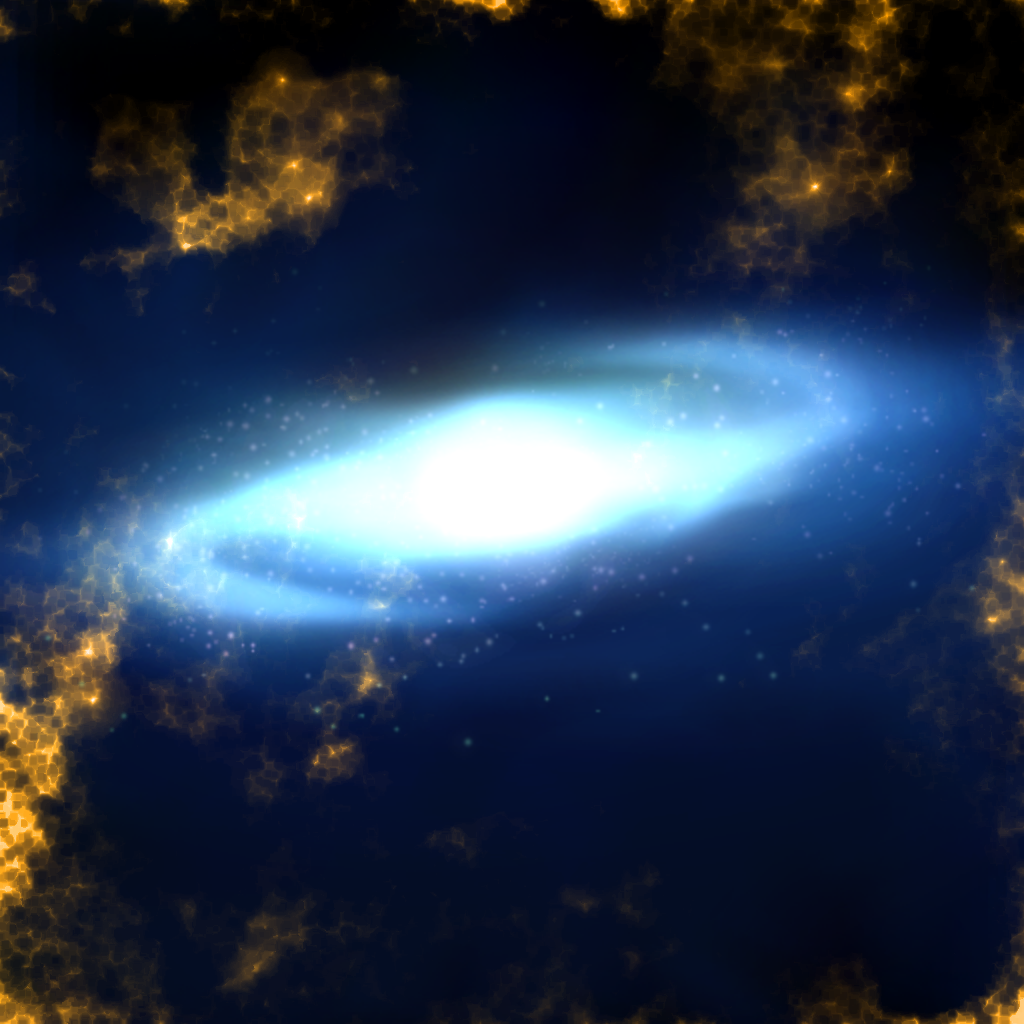
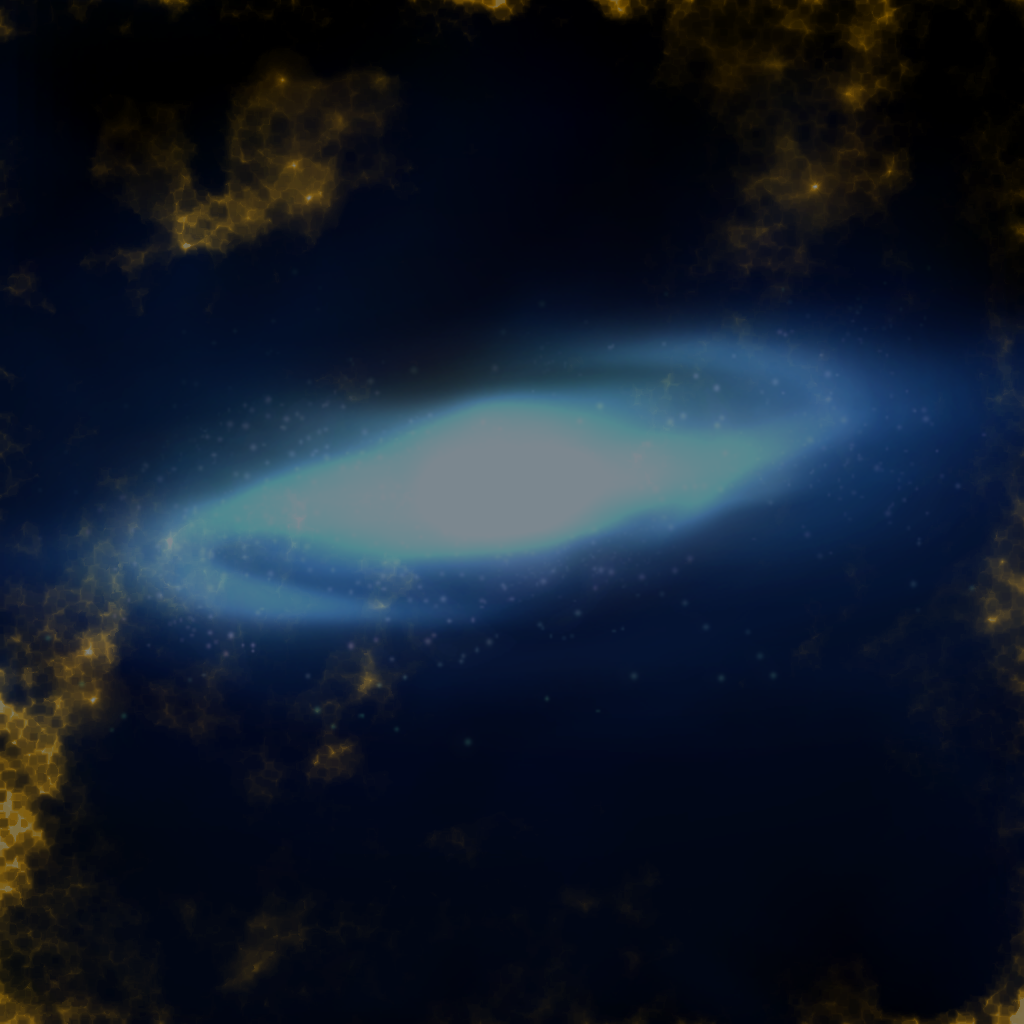
Tweaked a lot of variables regarding colour, UI, layout. Changed background to be less bright so text is readable. Showing detail info when completely zoomed in.

diff --git a/core/src/joozey/games/shellworlds/ShellWorlds.java b/core/src/joozey/games/shellworlds/ShellWorlds.java
@@ -7,7 +7,9 @@ import com.badlogic.gdx.InputMultiplexer;
 import com.badlogic.gdx.InputProcessor;
 import com.badlogic.gdx.graphics.GL20;
 import com.badlogic.gdx.graphics.OrthographicCamera;
+import com.badlogic.gdx.graphics.Texture;
 import com.badlogic.gdx.graphics.g2d.BitmapFont;
+import com.badlogic.gdx.graphics.g2d.NinePatch;
 import com.badlogic.gdx.graphics.g2d.SpriteBatch;
 import com.badlogic.gdx.graphics.g2d.freetype.FreeTypeFontGenerator;
 import com.badlogic.gdx.graphics.glutils.ShapeRenderer;
@@ -38,6 +40,8 @@ public class ShellWorlds extends Game implements GameRunnable, ApplicationListen
     private BitmapFont alienFont, normalFont;
     private DefaultSprite background;
     private DefaultSprite marker;
+    private NinePatch infoDisplay;
+    private boolean showDetailedInfo;
 
     private GameThread gameThread;
 
@@ -77,6 +81,7 @@ public class ShellWorlds extends Game implements GameRunnable, ApplicationListen
         followBodyObject = bodyObjectList.get(0);
 
         camera = new OrthographicCamera( GameData.getWidth(), GameData.getHeight() );
+        camera.zoom = 1f;
         batch = BatchManager.getSpriteBatch();
 
         shapeRenderer = BatchManager.getShapeRenderer();
@@ -95,8 +100,10 @@ public class ShellWorlds extends Game implements GameRunnable, ApplicationListen
 
         generator.dispose(); // don't forget to dispose to avoid memory leaks!
 
-        background = new DefaultSprite( "background3.png" );
+        background = new DefaultSprite( "background4.png" );
         marker = new DefaultSprite( "marker.png" );
+        marker.setAlpha( 1f - 1f/camera.zoom );
+        infoDisplay = new NinePatch( new Texture( "data/dialog-frame.png" ), 7, 7, 7, 7 );
     }
 
     @Override
@@ -157,26 +164,38 @@ public class ShellWorlds extends Game implements GameRunnable, ApplicationListen
             normalProjection = new Matrix4().setToOrtho2D(0, 0, Gdx.graphics.getWidth(),  Gdx.graphics.getHeight());
             batch.setProjectionMatrix(normalProjection);
 
-            Vector3 viewPosition = camera.project( new Vector3( bodyData.getPosition().x + 250f, bodyData.getPosition().y, 0 ));
+            Vector3 viewPosition = camera.project( new Vector3( bodyData.getPosition().x - 200f, bodyData.getPosition().y + 200f, 0 ));
             alienFont.setColor(bodyData.getSelectedOrbitColor());
             alienFont.draw(batch, bodyData.getName(), viewPosition.x, viewPosition.y);
         }
 
+
         //draw planet info at cursor
+
+        infoDisplay.draw( BatchManager.getSpriteBatch(), 10, GameData.getHeight() - 90, GameData.getWidth() / 2 - 20, 80 );
+
         if( this.touchedBody != null )
         {
             BodyData bodyData = this.touchedBody.getData();
 
-            Vector3 viewPosition = camera.project( new Vector3( bodyData.getPosition().x + 250f, bodyData.getPosition().y, 0 ));
+            Vector3 viewPosition = new Vector3( 20, GameData.getHeight() - 20, 0 );//camera.project( new Vector3( bodyData.getPosition().x + 250f, bodyData.getPosition().y, 0 ));
             normalFont.setColor(bodyData.getSelectedOrbitColor());
-            normalFont.draw(batch, bodyData.readMassInfo(), viewPosition.x, viewPosition.y - 16f);
-            normalFont.draw(batch, bodyData.readDensityInfo(), viewPosition.x, viewPosition.y - 32f);
-            normalFont.draw(batch, bodyData.readAtmosphereInfo(), viewPosition.x, viewPosition.y - 48f);
-            normalFont.draw(batch, bodyData.readDiversityInfo(), viewPosition.x, viewPosition.y - 64f);
-            normalFont.draw(batch, "Planets in reach: " + bodyData.getReachableBodies().size(), viewPosition.x, viewPosition.y - 80f);
+            normalFont.draw(batch, bodyData.readMassInfo(), viewPosition.x, viewPosition.y);
+            normalFont.draw(batch, bodyData.readDensityInfo(), viewPosition.x, viewPosition.y - 16f);
+            normalFont.draw(batch, bodyData.readAtmosphereInfo(), viewPosition.x, viewPosition.y - 32f);
+            normalFont.draw(batch, bodyData.readDiversityInfo(), viewPosition.x, viewPosition.y - 48f);
+
+            if( showDetailedInfo == true )
+            {
+                normalFont.draw( batch, bodyData.readBuildingProject(), GameData.getWidth() * 5f/7f, GameData.getHeight() / 2 + 96f );
+                normalFont.draw( batch, bodyData.readBuildingProgress(), GameData.getWidth() * 5f/7f, GameData.getHeight() / 2 + 80f );
+            }
+
+            batch.draw( this.touchedBody.getSprite(), 210, GameData.getHeight() - 84, 80, 80 );
         }
 
         //draw marker
+        marker.setAlpha( Math.min( camera.zoom/100f, 1f ) );
         marker.setPosition( Gdx.graphics.getWidth()/2f - marker.getWidth()/2f, Gdx.graphics.getHeight()/2f - marker.getHeight()/2f );
         marker.draw( BatchManager.DrawType.BATCH );
 
@@ -340,9 +359,16 @@ public class ShellWorlds extends Game implements GameRunnable, ApplicationListen
     @Override
     public boolean scrolled( int scrollAmount )
     {
-        this.camera.zoom += 20f * scrollAmount * this.camera.zoom / (3f * this.camera.zoom);
-        this.camera.zoom = Math.max( this.camera.zoom, 2f );
+        this.doScroll( 20f * scrollAmount * this.camera.zoom / (3f * this.camera.zoom) );
         return false;
+    }
+
+    public void doScroll( float amount )
+    {
+        this.camera.zoom += amount;
+        this.camera.zoom = Math.max( this.camera.zoom, 2f );
+
+        showDetailedInfo = ( this.camera.zoom == 2f ) ? true : false;
     }
 
 
@@ -389,12 +415,10 @@ public class ShellWorlds extends Game implements GameRunnable, ApplicationListen
     public boolean zoom(float initialDistance, float distance)
     {
         //Calculate pinch to zoom
-        float difference = (initialDistance - distance)/50f;
+        float difference = (initialDistance - distance)/30f;
         difference = Math.min( Math.max( difference, -1f ), 1f );
 
-        camera.zoom += difference;
-        camera.zoom = Math.max( camera.zoom, 2f );
-
+        doScroll( difference );
         return false;
     }
 
@@ -440,7 +464,16 @@ public class ShellWorlds extends Game implements GameRunnable, ApplicationListen
         if( camera != null ) {
             if (followBodyObject != null) {
                 Vector2 position = followBodyObject.getData().getPosition();
-                camera.position.set(position.x, position.y, 0f);
+                Vector3 position3d = new Vector3( position.x, position.y, 0 );
+
+                camera.translate(
+                    (position.x - camera.position.x)*.2f,
+                    (position.y - camera.position.y)*.2f, 0f);
+
+                if( camera.position.dst( position3d ) < 1500 )
+                {
+                    camera.position.set( position3d );
+                }
             }
         }
     }

diff --git a/powerup-core/src/joozey/libs/powerup/graphics/DefaultSprite.java b/powerup-core/src/joozey/libs/powerup/graphics/DefaultSprite.java
@@ -6,16 +6,27 @@ import com.badlogic.gdx.graphics.Pixmap;
 import com.badlogic.gdx.graphics.Texture;
 import com.badlogic.gdx.graphics.Texture.TextureFilter;
 import com.badlogic.gdx.graphics.g2d.Batch;
+import com.badlogic.gdx.graphics.g2d.NinePatch;
 import com.badlogic.gdx.graphics.g2d.Sprite;
 import com.badlogic.gdx.graphics.glutils.ShapeRenderer;
 import com.badlogic.gdx.math.Vector2;
 
 import joozey.libs.powerup.object.BatchManager;
-import joozey.libs.powerup.util.DefaultColors;
 import joozey.libs.powerup.object.BatchManager.DrawType;
+import joozey.libs.powerup.util.DefaultColors;
 
 public class DefaultSprite extends Sprite
 {
+    public static Texture stringToTexture( String bitmapName )
+    {
+        Texture texture = new Texture(Gdx.files.internal("data/" + bitmapName));
+
+        if( bitmapName.contains(".9.") ) {
+            new NinePatch( texture );
+        }
+        return texture;
+    }
+
 	private float offsetX, offsetY;
 	private float x, y;
 	private String bitmapName;
@@ -27,7 +38,7 @@ public class DefaultSprite extends Sprite
 
     public DefaultSprite( String bitmapName )
 	{
-		super( new Texture( Gdx.files.internal( "data/" + bitmapName ) ) );
+        super( stringToTexture( bitmapName ) );
 
 		this.bitmapName = bitmapName;
 		setDefaultValues();
@@ -87,21 +98,21 @@ public class DefaultSprite extends Sprite
         }
     }
 
-	@Override
-	public final void draw( Batch batch )
-	{
-		super.setPosition( this.x + this.offsetX, this.y + this.offsetY );
-		
-		Color color = super.getColor();
-		float oldAlpha = color.a;
-		color.a *= alpha;
+    @Override
+    public final void draw( Batch batch )
+    {
+        super.setPosition( this.x + this.offsetX, this.y + this.offsetY );
 
-		super.setColor(color);
-		super.draw( batch );
+        Color color = super.getColor();
+        float oldAlpha = color.a;
+        color.a *= alpha;
 
-		color.a = oldAlpha;
-		super.setColor(color);
-	}
+        super.setColor(color);
+        super.draw( batch );
+
+        color.a = oldAlpha;
+        super.setColor(color);
+    }
 
 	protected void drawBatch()
 	{
@@ -115,6 +126,11 @@ public class DefaultSprite extends Sprite
 		this.x = x;
 		this.y = y;
 	}
+
+    public Vector2 getPosition()
+    {
+        return new Vector2( this.x, this.y );
+    }
 
 	public void dispose()
 	{

diff --git a/core/src/joozey/games/shellworlds/BodyView.java b/core/src/joozey/games/shellworlds/BodyView.java
@@ -17,7 +17,6 @@ public class BodyView extends StackedSprite
 {
     private BodyData bodyData;
     private boolean shell;
-    private float flashAlpha = (float)Math.random() * 10f;
 
     public BodyView( String planetImage )
     {
@@ -60,8 +59,7 @@ public class BodyView extends StackedSprite
         Gdx.gl.glBlendFunc(GL20.GL_SRC_ALPHA, GL20.GL_ONE_MINUS_SRC_ALPHA);
         Gdx.gl.glLineWidth(1.8f);
 
-        flashAlpha = (flashAlpha + 1) % 20;
-        shapeRenderer.setColor( 1f, 1f, 1f, (float)Math.random() );
+        shapeRenderer.setColor( 1f, 1f, 1f, (float)Math.random()/3f + .3f );
         for( BodyObject bodyObject : this.bodyData.getReachableBodies() ) {
             BodyData bodyData = bodyObject.getData();
             Vector2 displace = new Vector2( (float)Math.random() * 20, (float)Math.random() * 20 );
@@ -73,7 +71,7 @@ public class BodyView extends StackedSprite
         }
         else
         {
-            shapeRenderer.setColor( selectedColor.r, selectedColor.g, selectedColor.b, .7f );
+            shapeRenderer.setColor( selectedColor.r, selectedColor.g, selectedColor.b, .5f );
         }
 
         shapeRenderer.circle(0, 0, bodyData.getDistance());
@@ -97,7 +95,7 @@ public class BodyView extends StackedSprite
         }
         else
         {
-            shapeRenderer.setColor( selectedColor.r, selectedColor.g, selectedColor.b, 0.3f );
+            shapeRenderer.setColor( selectedColor.r, selectedColor.g, selectedColor.b, 0.2f );
         }
 
         shapeRenderer.circle(

diff --git a/core/src/joozey/games/shellworlds/BodyData.java b/core/src/joozey/games/shellworlds/BodyData.java
@@ -56,7 +56,7 @@ public class BodyData extends GameObject2DData
 
         Random r = new Random();
         this.name = "";
-        int chars = (int)(Math.random() * 4) + 4;
+        int chars = 3;//(int)(Math.random() * 4) + 4;
         for( int i = 0; i < chars; i++ )
         {
             name += (char)(r.nextInt(26) + 'a');
@@ -179,5 +179,13 @@ public class BodyData extends GameObject2DData
     {
         this.buildProgress += progress;
         this.buildProgress %= 100;
+    }
+
+    public CharSequence readBuildingProject() {
+        return "Constructing Shellworld";
+    }
+
+    public CharSequence readBuildingProgress() {
+        return (int)this.buildProgress + "% COMPLETED";
     }
 }

diff --git a/core/src/joozey/games/shellworlds/BodyObject.java b/core/src/joozey/games/shellworlds/BodyObject.java
@@ -2,6 +2,7 @@ package joozey.games.shellworlds;
 
 import joozey.libs.powerup.control.GameThread;
 import joozey.libs.powerup.game.GameData;
+import joozey.libs.powerup.graphics.DefaultSprite;
 import joozey.libs.powerup.object.GameObject2D;
 
 /**
@@ -41,5 +42,9 @@ public class BodyObject extends GameObject2D
         );
 
         super.run( gameThread );
+    }
+
+    public DefaultSprite getSprite() {
+        return bodyView;
     }
 }

diff --git a/powerup-core/src/joozey/libs/powerup/object/GameObject2D.java b/powerup-core/src/joozey/libs/powerup/object/GameObject2D.java
@@ -61,6 +61,7 @@ public abstract class GameObject2D extends GameObject implements GameDrawable
 		this.data.setDestroyed();
 	}
 
+
     public final void draw( BatchManager.DrawType drawType )
     {
         this.sprite.draw(drawType);
